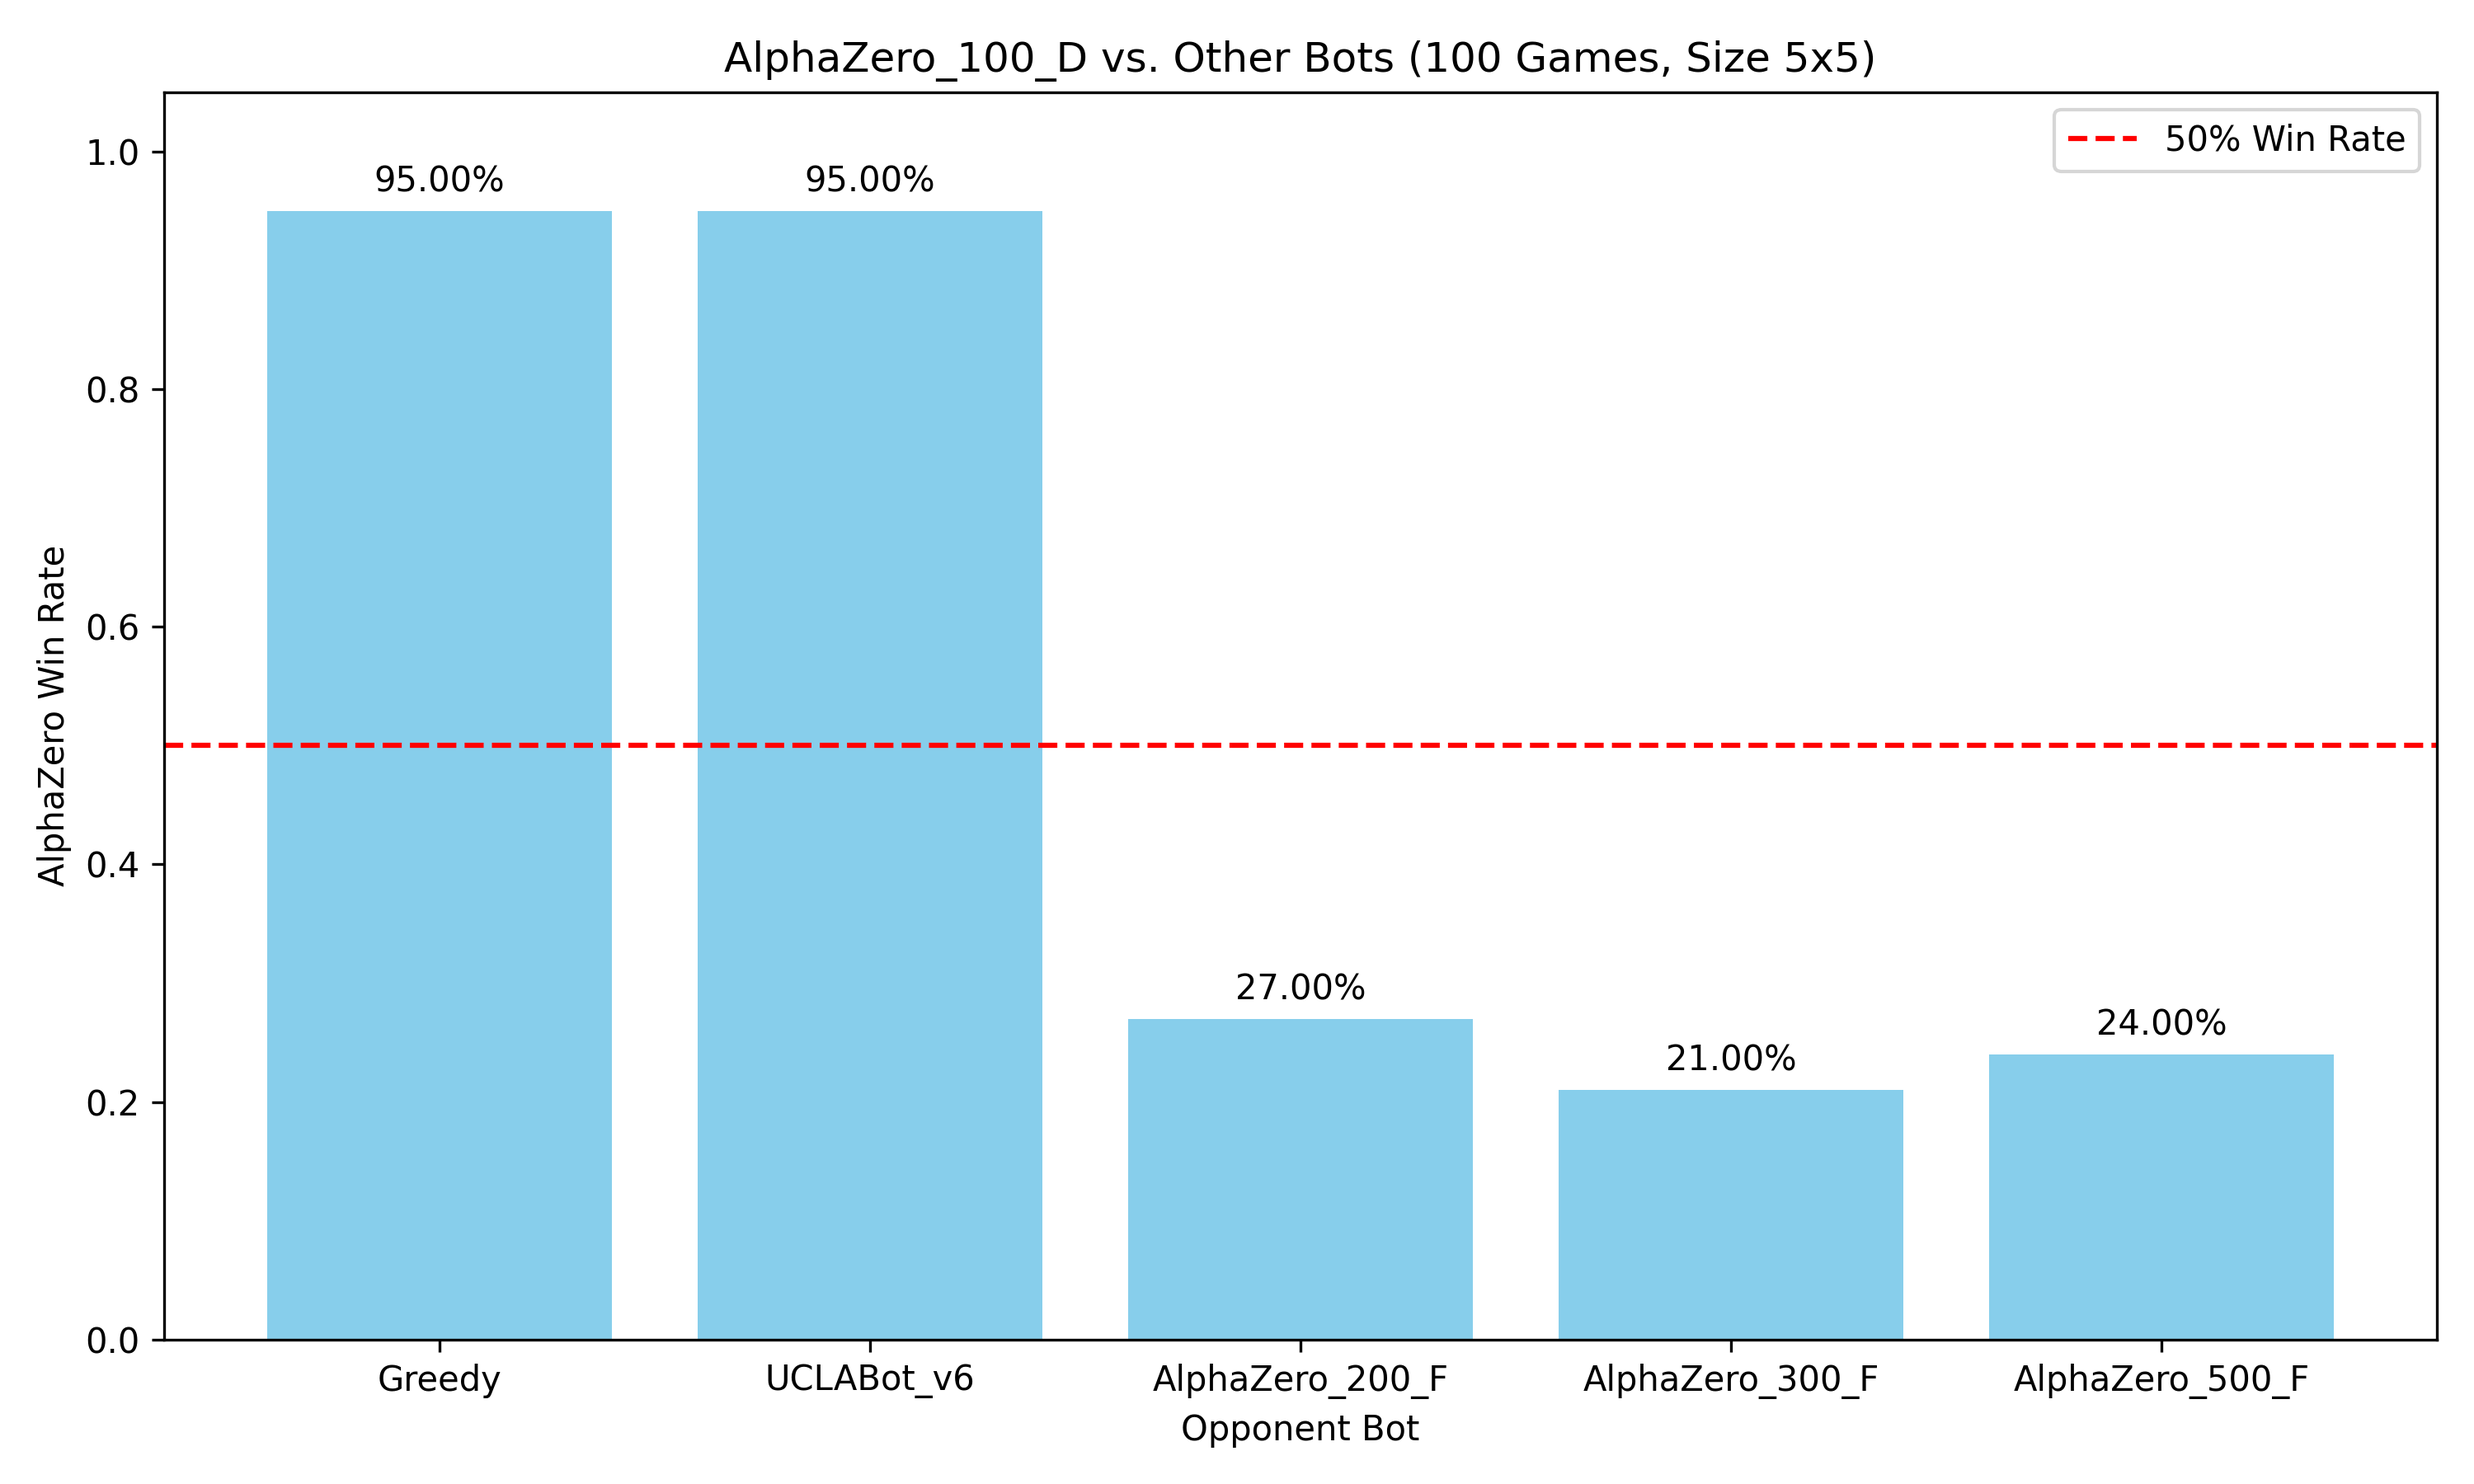
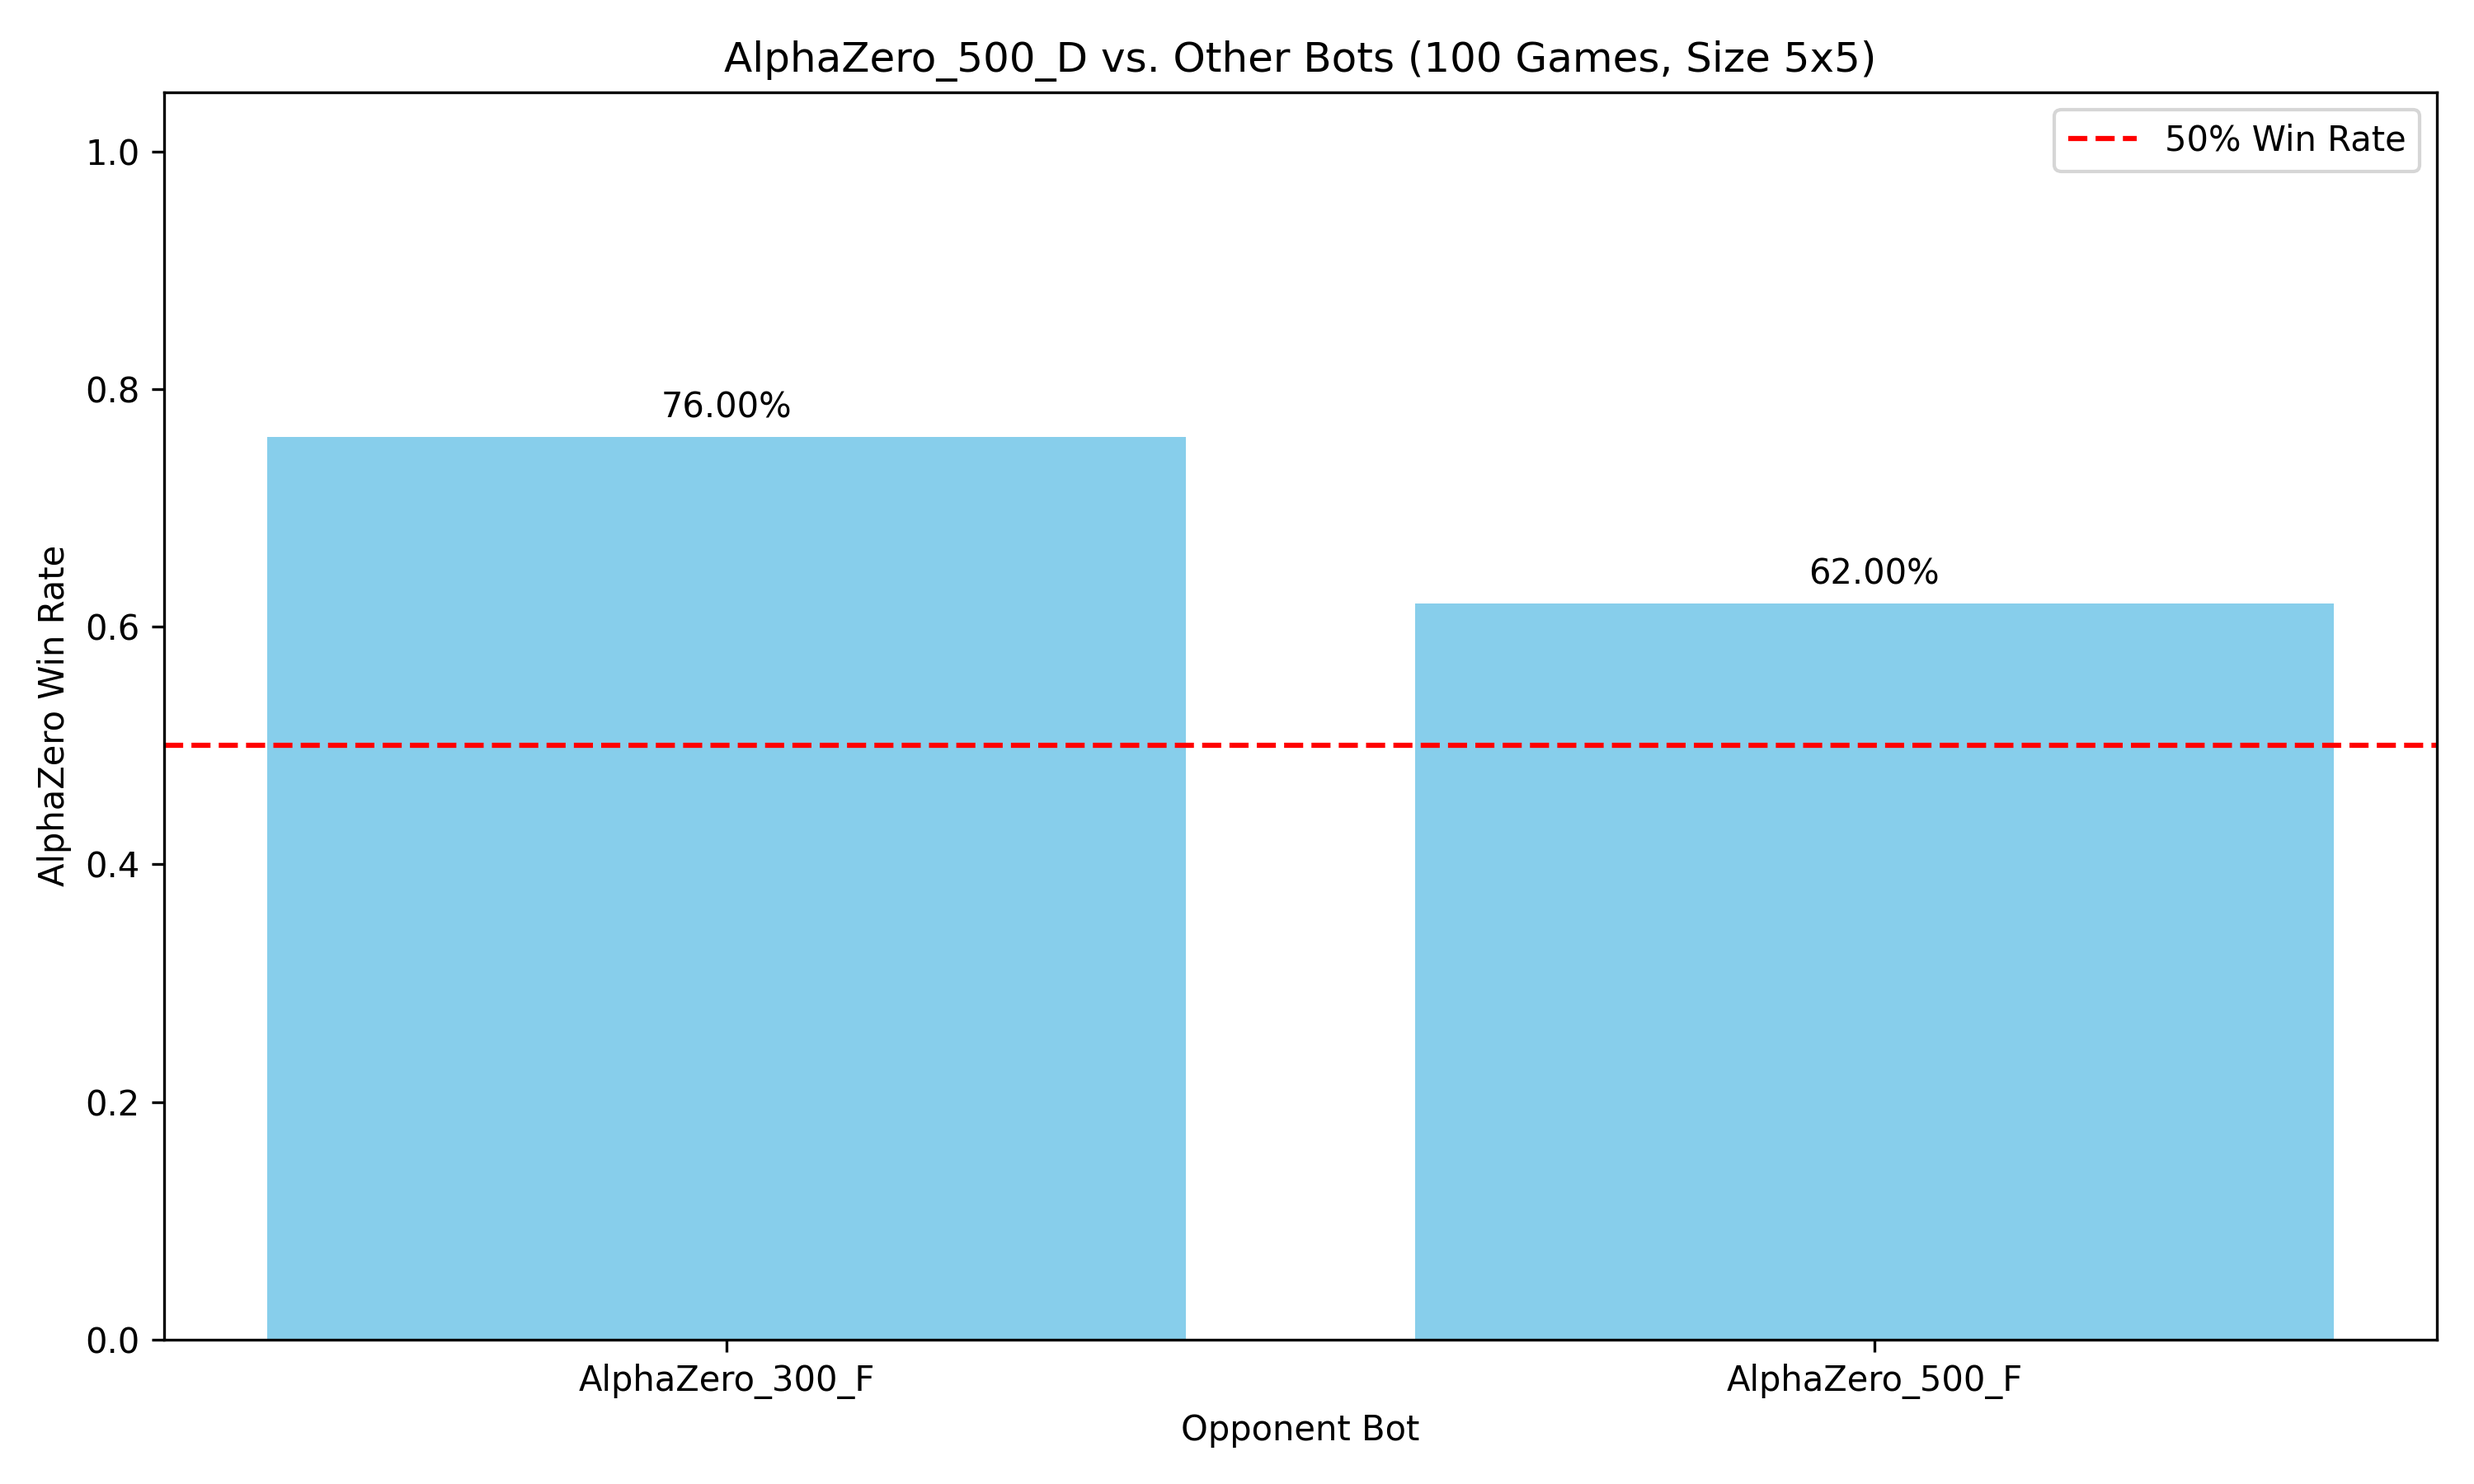
UPDATE MCTS

Changed region(s): [[0.093, 0.0933, 0.961, 0.9333], [0.155, 0.9022, 0.186, 0.9333]]

diff --git a/mcts.py b/mcts.py
@@ -72,14 +72,14 @@ class MCTS:
         # Count drawn lines directly from the game-state array (no extra API needed)
         total_moves = int((game_state.l != 0).sum())
 
-        if total_moves < 25:
-            scale = 0.2
-        elif total_moves < 35:
+        if total_moves < 15:
+            scale = 0.5
+        elif total_moves < 40:
             scale = 2.0
-        elif total_moves < 45:
+        elif total_moves < 50:
             scale = 1.5
         else:
-            scale = 0.2
+            scale = 1
 
         return max(1, int(self.n_simulations * scale))
 

diff --git a/evaluate_Alphzero_agent.py b/evaluate_Alphzero_agent.py
@@ -114,18 +114,18 @@ def main():
 
     opponent_names = [
         # "Random",
-        "Greedy", 
+        # "Greedy", 
         #"Greedy Chain",
         #"UCLABot_v3",
-        "UCLABot_v6",
+        # "UCLABot_v6",
         # "SimpleBot",
         # "SimpleBot_v2",
         # "UCLA_MCTS_0.1",
         # "UCLA_MCTS_0.2",
         # "AlphaZero_100",
-        "AlphaZero_200_F",
+        # "AlphaZero_200_F",
         "AlphaZero_300_F",
-        "AlphaZero_500_F",
+        # "AlphaZero_500_F",
     ]
 
     tasks = []
